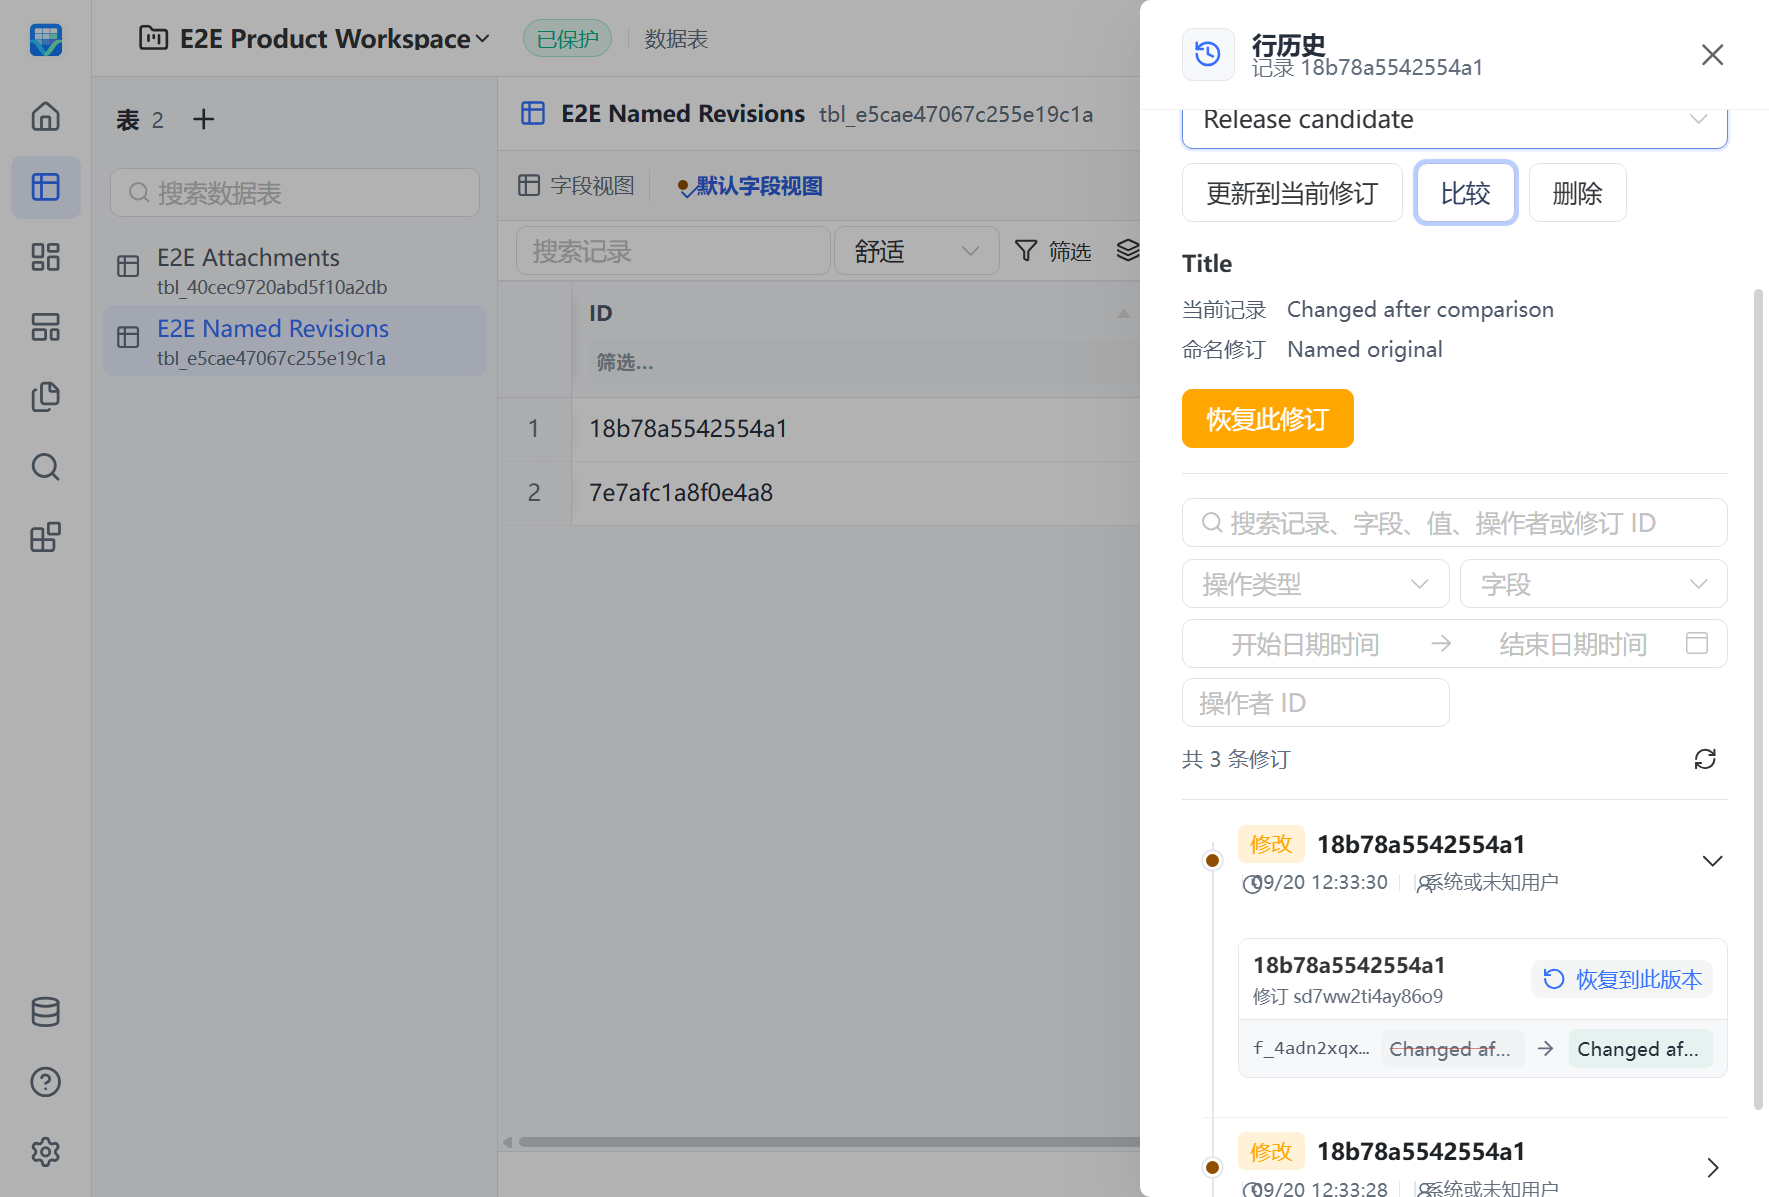
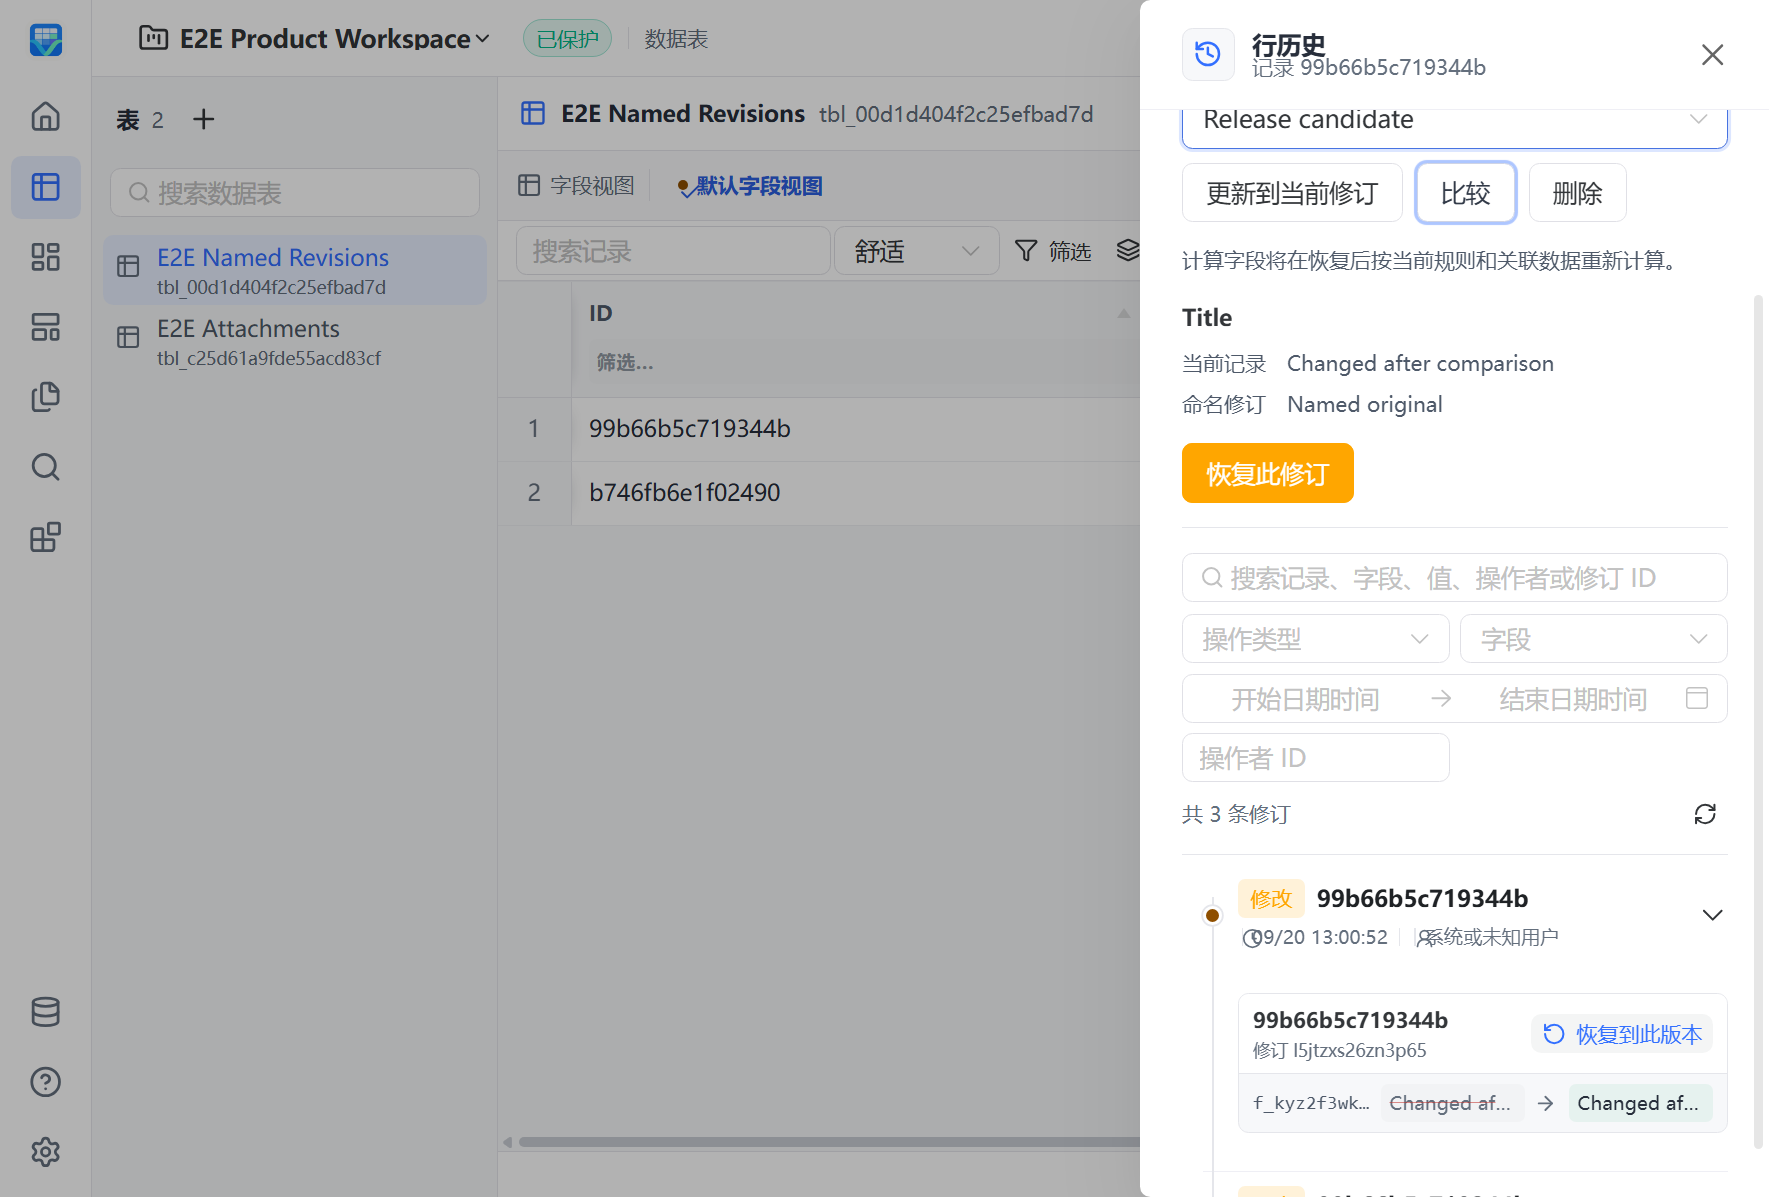
fix(version): 按实际恢复计划展示差异并说明字段重算

diff --git a/desktop/web-grid/src/components/history/NamedRevisionsPanel.vue b/desktop/web-grid/src/components/history/NamedRevisionsPanel.vue
@@ -10,6 +10,7 @@ const emit = defineEmits<{
 const choices = computed(() => props.state.versions.map((entry) => ({
   label: entry.name || entry.key || entry.id, value: entry.id,
 })));
+const canRestore = computed(() => !!props.state.comparison && Object.keys(props.state.comparison.differences).length > 0);
 const fieldLabels = computed(() => new Map(props.fieldOptions.map((field) => [field.value, field.label])));
 function displayValue(value: unknown): string {
   return value === null || value === undefined || value === "" ? t("named.emptyValue")
@@ -38,6 +39,7 @@ function displayValue(value: unknown): string {
       </NPopconfirm>
     </div>
     <div v-if="state.comparison" data-testid="named-comparison">
+      <p data-testid="named-recomputed">{{ t('named.recomputed') }}</p>
       <p v-if="!Object.keys(state.comparison.differences).length" role="status" data-testid="named-no-differences">{{ t('named.noDifferences') }}</p>
       <dl v-else class="named-differences">
         <template v-for="(difference, field) in state.comparison.differences" :key="field">
@@ -47,7 +49,7 @@ function displayValue(value: unknown): string {
         </template>
       </dl>
       <NPopconfirm :positive-text="t('named.promote')" @positive-click="emit('action', 'promote')">
-        <template #trigger><NButton type="warning" :disabled="state.loading" :aria-label="t('named.promote')" data-testid="named-promote">{{ t('named.promote') }}</NButton></template>
+        <template #trigger><NButton type="warning" :disabled="state.loading || !canRestore" :aria-label="t('named.promote')" data-testid="named-promote">{{ t('named.promote') }}</NButton></template>
         {{ t('named.promoteConfirm') }}
       </NPopconfirm>
     </div>

diff --git a/desktop/web-grid/src/components/history/NamedRevisionsPanel.test.ts b/desktop/web-grid/src/components/history/NamedRevisionsPanel.test.ts
@@ -40,6 +40,8 @@ describe("named revision product controls", () => {
     value.comparison = { collection: "table", itemId: "row", versionId: "v1", versionRevision: "r1", mainHash: "h1", outdated: false, differences: {} };
     await flushPromises();
     expect(wrapper.get('[data-testid="named-no-differences"]').text()).toBeTruthy();
+    expect(wrapper.get('[data-testid="named-recomputed"]').text()).toBeTruthy();
+    expect(wrapper.get('[data-testid="named-promote"]').attributes("disabled")).toBeDefined();
   });
   it("shows errors and disables pending writes without removing the user draft", async () => {
     const value = state(); value.error = "Version changed. Reload before retrying."; value.loading = true;

diff --git a/desktop/web-grid/src/i18n/locales/en-US.ts b/desktop/web-grid/src/i18n/locales/en-US.ts
@@ -1,7 +1,8 @@
 export const messages: Record<string, string> = {
   "named.empty": "No named revisions yet. Enter a name to capture the current record.",
   "named.emptyValue": "(empty)",
-  "named.noDifferences": "The current record matches this revision.",
+  "named.noDifferences": "No differences in restorable fields.",
+  "named.recomputed": "Computed fields will be recalculated using current rules and related data after restoration.",
   "named.current": "Current record",
   "named.target": "Named revision",
   "named.title": "Named revisions",

diff --git a/desktop/web-grid/src/i18n/locales/zh-CN.ts b/desktop/web-grid/src/i18n/locales/zh-CN.ts
@@ -1,7 +1,8 @@
 export const messages: Record<string, string> = {
   "named.empty": "尚无命名修订。输入名称，记录当前记录的状态。",
   "named.emptyValue": "（空）",
-  "named.noDifferences": "当前记录与此修订一致。",
+  "named.noDifferences": "可恢复字段没有差异。",
+  "named.recomputed": "计算字段将在恢复后按当前规则和关联数据重新计算。",
   "named.current": "当前记录",
   "named.target": "命名修订",
   "named.title": "命名修订",

diff --git a/sidecar/tests/integration/content_version_commit_test.go b/sidecar/tests/integration/content_version_commit_test.go
@@ -10,6 +10,7 @@ import (
 
 	"github.com/pocketbase/pocketbase/core"
 	"github.com/vibetable/vibetable/sidecar/internal/audit"
+	"github.com/vibetable/vibetable/sidecar/internal/formula"
 	"github.com/vibetable/vibetable/sidecar/internal/metadata"
 	"github.com/vibetable/vibetable/sidecar/internal/mutation"
 	v2 "github.com/vibetable/vibetable/sidecar/internal/schema/v2"
@@ -101,7 +102,11 @@ func TestContentVersionComparisonMatchesRestoredManyRelation(t *testing.T) {
 	source := createV2IntegrationTable(t, ctx, app, "Version source", "version_source")
 	title := createV2IntegrationField(t, ctx, app, source.TableID, fieldDraftForIntegration(t, v2.LogicalText, "Title"), "version_source_title")
 	related := createV2IntegrationRelation(t, ctx, app, source.TableID, title.FieldID, targets.TableID, targetName.FieldID, "Related", "Sources", "many", "version_relation")
-	kernel := mutation.New(app, mutation.MetadataSchemaSource{})
+	author := createV2IntegrationRelation(t, ctx, app, source.TableID, title.FieldID, targets.TableID, targetName.FieldID, "Author", "Authored", "one", "version_author")
+	formulaDraft := fieldDraftForIntegration(t, v2.LogicalFormula, "Author label")
+	formulaDraft.Formula = &v2.FormulaDraftSpec{Language: "cel-v1", Source: `concat({Author}.{Name}, "")`}
+	authorLabel := createV2IntegrationFormula(t, ctx, app, source.TableID, formulaDraft, "version_author_label")
+	kernel := mutation.New(app, mutation.MetadataSchemaSource{}, mutation.WithFormulaCalculator(formula.NewCalculator(formula.NewCompiler(formula.DefaultLimits()))))
 	service, err := audit.New(app, kernel)
 	if err != nil {
 		t.Fatal(err)
@@ -124,14 +129,15 @@ func TestContentVersionComparisonMatchesRestoredManyRelation(t *testing.T) {
 	}
 	field := related.Definition.Identity.PhysicalName
 	rowID := "versionsource01"
-	apply("insert-source", source.TableID, rowID, mutation.OperationInsert, map[string]any{field: ids[:2], title.Definition.Identity.PhysicalName: "original"})
+	apply("insert-source", source.TableID, rowID, mutation.OperationInsert, map[string]any{field: ids[:2], title.Definition.Identity.PhysicalName: "original", author.Definition.Identity.PhysicalName: ids[0]})
 	created, err := owner.Write(ctx, "version.create", metadata.VersionParams{Collection: source.TableID, ItemID: rowID, Key: "before", OperationID: "name-relation"})
 	if err != nil {
 		t.Fatal(err)
 	}
 	entry := created.(map[string]any)
 	versionID := entry["id"].(string)
-	apply("update-source", source.TableID, rowID, mutation.OperationUpdate, map[string]any{field: ids[1:]})
+	apply("update-source", source.TableID, rowID, mutation.OperationUpdate, map[string]any{field: ids[1:], author.Definition.Identity.PhysicalName: ids[1]})
+	apply("rename-historical-author", targets.TableID, ids[0], mutation.OperationUpdate, map[string]any{targetName.Definition.Identity.PhysicalName: "Gamma"})
 	compared, err := owner.Compare(ctx, metadata.VersionParams{Collection: source.TableID, ItemID: rowID, VersionID: versionID})
 	if err != nil {
 		t.Fatal(err)
@@ -151,11 +157,14 @@ func TestContentVersionComparisonMatchesRestoredManyRelation(t *testing.T) {
 	if err := json.Unmarshal(encoded, &result); err != nil {
 		t.Fatal(err)
 	}
+	if historical, shown := result.Differences[authorLabel.Definition.Identity.PhysicalName]; shown {
+		t.Errorf("comparison promises a historical computed value instead of current-rule recomputation: %+v", historical)
+	}
 	difference := result.Differences[field]
 	if difference.Main != strings.Join(ids[1:], ", ") || difference.Version != strings.Join(ids[:2], ", ") {
 		t.Fatalf("named comparison hides actual relation sets: %s", encoded)
 	}
-	_, err = owner.Write(ctx, "version.promote", metadata.VersionParams{Collection: source.TableID, ItemID: rowID, VersionID: versionID, ExpectedRevision: result.VersionRevision, MainHash: result.MainHash, OperationID: "restore-relation"})
+	promoted, err := owner.Write(ctx, "version.promote", metadata.VersionParams{Collection: source.TableID, ItemID: rowID, VersionID: versionID, ExpectedRevision: result.VersionRevision, MainHash: result.MainHash, OperationID: "restore-relation"})
 	if err != nil {
 		t.Fatal(err)
 	}
@@ -166,8 +175,19 @@ func TestContentVersionComparisonMatchesRestoredManyRelation(t *testing.T) {
 	if got := record.GetStringSlice(field); !reflect.DeepEqual(got, ids[:2]) {
 		t.Fatalf("restored relation %v differs from displayed %v", got, difference.Version)
 	}
+	restoredResult := promoted.(map[string]any)["result"].(audit.RestoreResult)
+	if restoredResult.Item[authorLabel.Definition.Identity.PhysicalName] != "Gamma" {
+		t.Fatalf("restoration did not recalculate the current relation label: %v", restoredResult.Item)
+	}
+	onlyDerived, err := owner.Compare(ctx, metadata.VersionParams{Collection: source.TableID, ItemID: rowID, VersionID: versionID})
+	if err != nil {
+		t.Fatal(err)
+	}
+	if differences := onlyDerived.(map[string]any)["differences"].(map[string]any); len(differences) != 0 {
+		t.Fatalf("derived-only drift advertised restorable changes: %v", differences)
+	}
 	t.Run("unavailable target cannot produce an unannounced partial restore", func(t *testing.T) {
-		apply("change-before-unavailable", source.TableID, rowID, mutation.OperationUpdate, map[string]any{field: ids[1:], title.Definition.Identity.PhysicalName: "later"})
+		apply("change-before-unavailable", source.TableID, rowID, mutation.OperationUpdate, map[string]any{field: ids[1:], title.Definition.Identity.PhysicalName: "later", author.Definition.Identity.PhysicalName: ids[1]})
 		safeCompare, err := owner.Compare(ctx, metadata.VersionParams{Collection: source.TableID, ItemID: rowID, VersionID: versionID})
 		if err != nil {
 			t.Fatal(err)

diff --git a/sidecar/internal/metadata/content_version.go b/sidecar/internal/metadata/content_version.go
@@ -195,11 +195,21 @@ func (s *ContentVersions) Compare(ctx context.Context, p VersionParams) (any, er
 	if err := requireCompleteVersionRestore(preview); err != nil {
 		return nil, err
 	}
+	restorable := make(map[string]bool, len(preview.Restorable))
+	for _, field := range preview.Restorable {
+		restorable[field] = true
+	}
 	differences := map[string]any{}
 	for _, change := range preview.ScalarChanges {
+		if !restorable[change.Field] {
+			continue
+		}
 		differences[change.Field] = map[string]any{"main": change.Before, "version": change.After}
 	}
 	for _, change := range preview.RelationChanges {
+		if !restorable[change.Field] {
+			continue
+		}
 		before, after := change.BeforeItemID, change.AfterItemID
 		if change.Kind == "m2m" {
 			before, after = change.BeforeDisplayValue, change.AfterDisplayValue
@@ -415,7 +425,7 @@ func (s *ContentVersions) promote(ctx context.Context, p VersionParams, key, dig
 // explain skipped fields; this entry point has no partial-restore selection.
 func requireCompleteVersionRestore(preview audit.Preview) error {
 	for _, diagnostic := range preview.Diagnostics {
-		if diagnostic.Severity == "derived" && diagnostic.Code == "field_generated" {
+		if diagnostic.Classification == "derived" && diagnostic.Code == "field_generated" {
 			continue // Computed/system values are recalculated by the mutation kernel.
 		}
 		return versionError("version_not_restorable", "Named revision cannot be fully restored because a field or related record is unavailable.")
